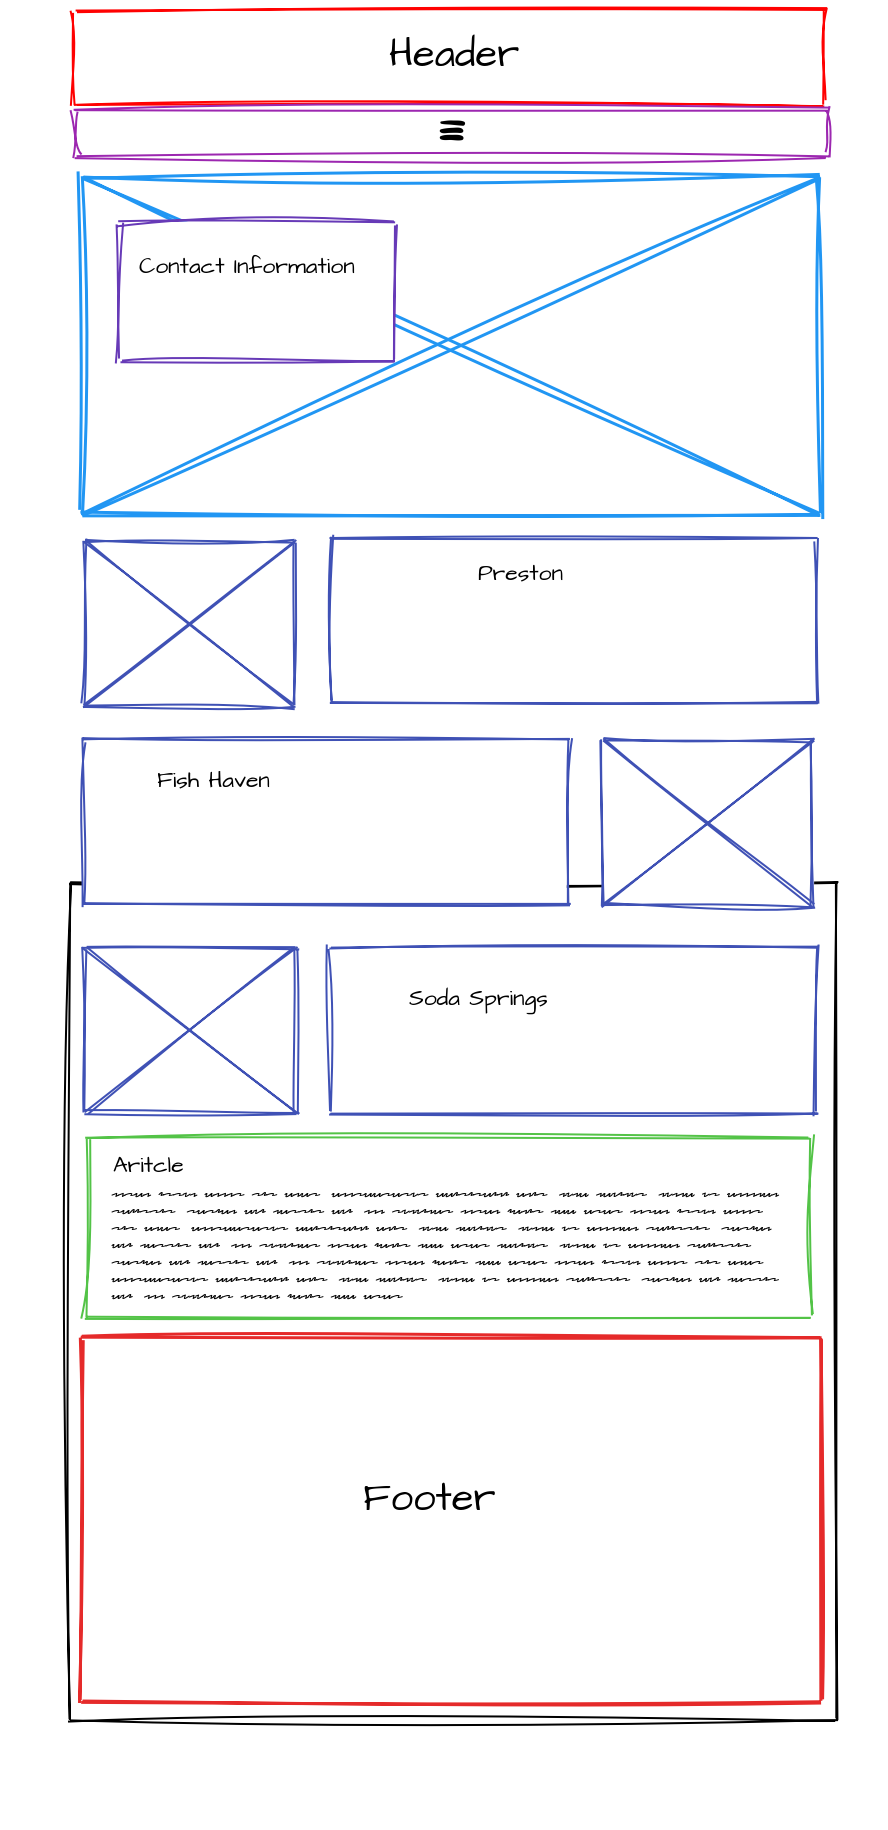
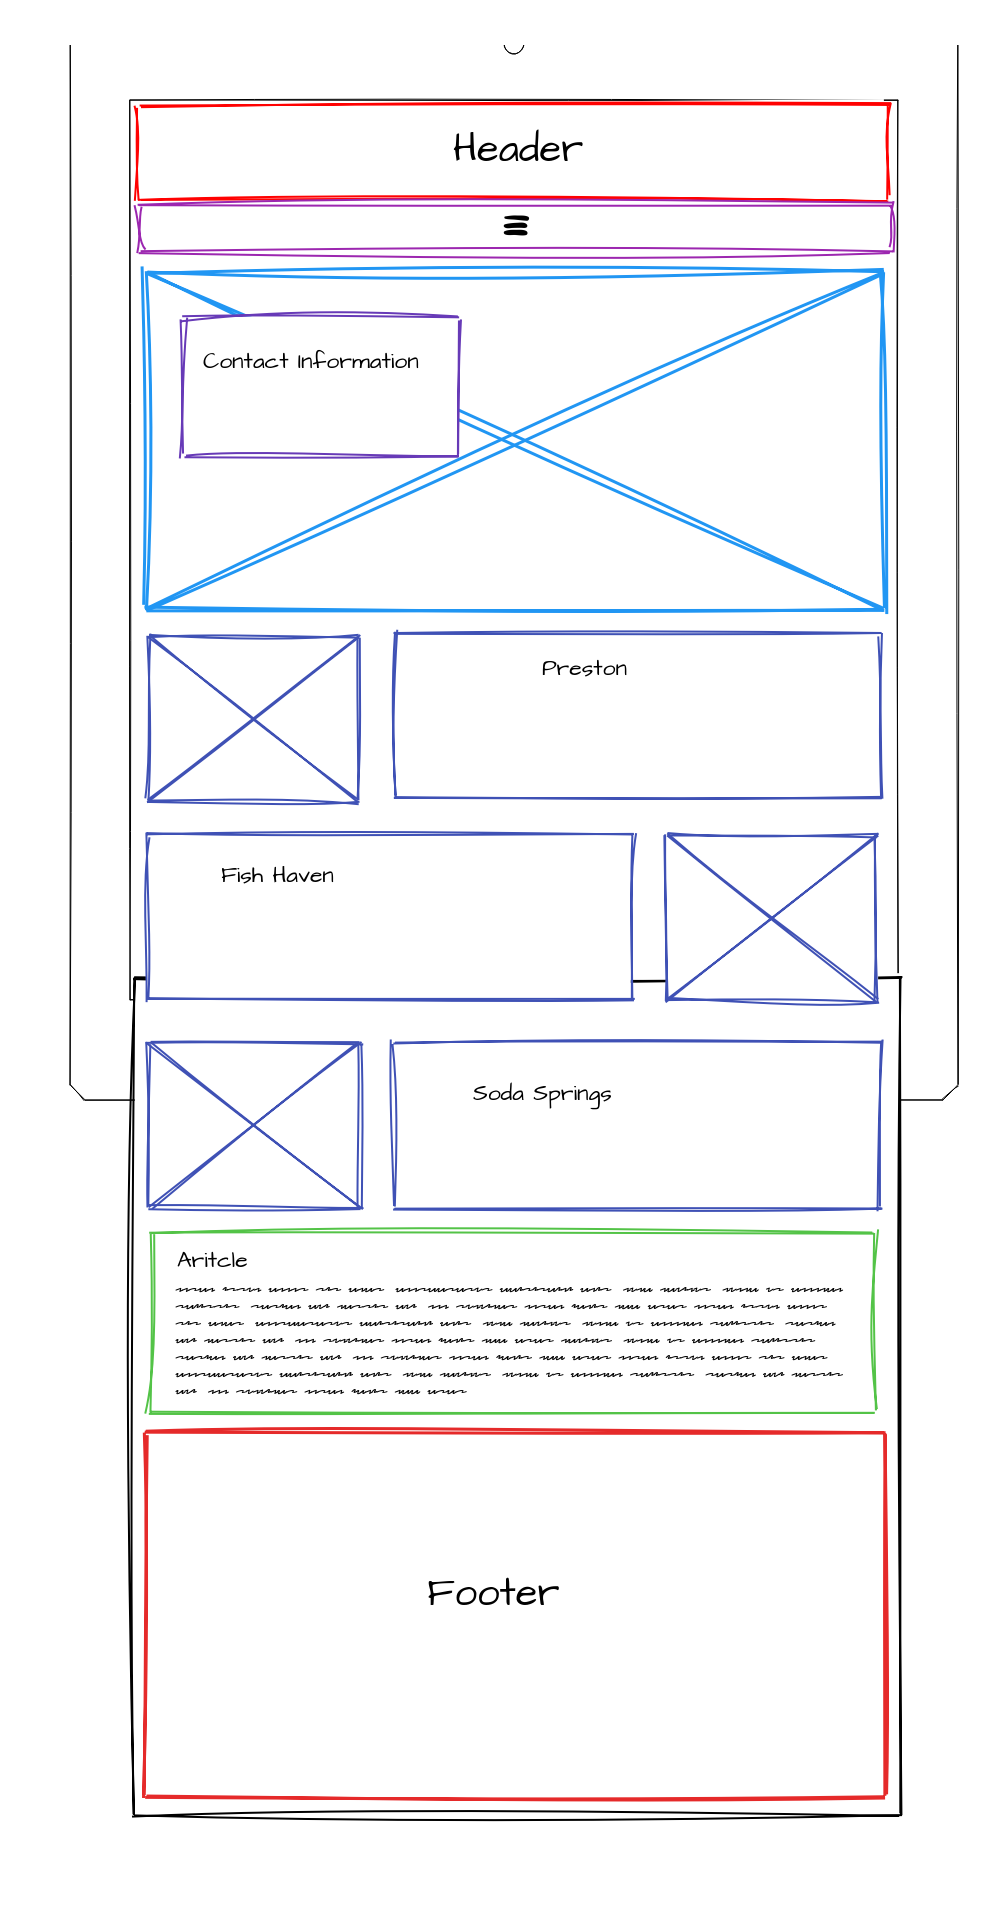
108 Commit

Changed region(s): [[0.0608, 0.0, 0.973, 0.9656], [0.3953, 0.8098, 0.5473, 0.841]]

diff --git a/lesson9/index.html b/lesson9/index.html
@@ -5,11 +5,10 @@
     <meta charset="utf-8">
     <meta name="viewport" content="width=device-width, initial-scale=1">
     <title>Weather Weekly:Preston Town Page</title>
-    <meta name="description" content="Assignment: Build general layout for Preston, Idaho Town weather web page. Including a logo, site name, motto, three viewports, responsive, use javascript and contain other features and information.">
     <link rel="stylesheet" href="/css/normalize.css">
-    <link rel="stylesheet" href="/lesson6/css/small.css">
-    <link rel="stylesheet" href="/lesson6/css/medium.css">
-    <link rel="stylesheet" href="/lesson6/css/large.css">
+    <link rel="stylesheet" href="/lesson9/css/small.css">
+    <link rel="stylesheet" href="/lesson9/css/medium.css">
+    <link rel="stylesheet" href="/lesson9/css/large.css">
     <link rel="shortcut icon" href="/lesson6/images/favicon.ico">
 </head>
 
@@ -33,7 +32,18 @@
     </nav>
     <main>
         <h2>Home</h2>
-        
+        <img class="mainImg" loading=lazy src="/lesson9/images/main.webp" alt="Main Image">
+        <div class="weather">
+            <h3>Contact Information</h3>
+            <p>Phone #</p>
+            <p>Email</p>
+        </div>
+        <div class="summaries">
+        </div>
+        <div class="news main">
+            <h3>News Article</h3>
+            <p>Lorem ipsum dolor sit amet, consectetur adipiscing elit. Morbi sapien ante, suscipit elementum viverra tincidunt, pellentesque ac orci. Maecenas non orci pharetra, tincidunt ipsum eu, molestie sem. Aliquam sapien nisi, fermentum ut placerat nec, rhoncus ut risus. Vestibulum ante ipsum primis in faucibus orci luctus et ultrices posuere cubilia curae; Ut aliquet accumsan leo at aliquam. Nulla consequat eros vel magna posuere, id consectetur nulla convallis. Donec non vehicula diam. Curabitur vel nulla ornare, euismod quam non, auctor diam. Phasellus imperdiet libero eu tortor viverra, vel efficitur mauris laoreet. Vivamus posuere at nulla vel lobortis. Vestibulum dapibus mauris sit amet fringilla fringilla. Sed ultricies orci quis lectus dignissim, id sollicitudin augue volutpat. Sed fringilla magna lacinia ipsum aliquam, in consequat enim condimentum.</p>
+        </div>
     </main>
     <footer>
         <p>Contact Information</p>
@@ -48,7 +58,7 @@
         <a href="https://www.twitter.com/"><img class="social" src="/lesson5/images/twitter.png" alt="twitter"></a>
     </footer>
     <script src="/lesson6/js/right-now.js"></script>
-    <script src="/lesson6/js/windchill.js"></script>
+    <script src="/lesson9/js/index.js"></script>
     <script src="https://ajax.googleapis.com/ajax/libs/webfont/1.6.26/webfont.js"></script>
     <script>
         WebFont.load({

diff --git a/lesson9/js/index.js b/lesson9/js/index.js
@@ -1,0 +1,70 @@
+const requestURL = 'https://byui-cit230.github.io/weather/data/towndata.json';
+
+fetch(requestURL)
+  .then(function (response) {
+    return response.json();
+  })
+  .then(function (jsonObject) {
+    console.table(jsonObject);
+    const towns = jsonObject['towns'];
+
+    
+    for (let i = 1; i < towns.length; i= i+3 ) {
+
+        let summary = document.createElement('section');
+        let h3 = document.createElement('h3');
+        let h5 = document.createElement('h5');
+        let p1 = document.createElement('p');
+        let p2 = document.createElement('p');
+        let p3 = document.createElement('p');
+        let image = document.createElement('img');
+
+        h3.textContent = towns[i].name;
+        h5.textContent = towns[i].motto;
+        p1.textContent = "Year Founded: " + towns[i].yearFounded;
+        p2.textContent = "Population: " + towns[i].currentPopulation;
+        p3.textContent = "Annual Rain Fall: " + towns[i].averageRainfall;
+        image.setAttribute('src', towns[i].photo);
+
+        summary.appendChild(h3);
+        summary.appendChild(h5);
+        summary.appendChild(p1);
+        summary.appendChild(p2);
+        summary.appendChild(p3);
+        summary.appendChild(image);
+        
+
+        document.querySelector('div.summaries').appendChild(summary);
+
+        i++;
+
+    }   
+
+        let summary = document.createElement('section');
+        let h3 = document.createElement('h3');
+        let h5 = document.createElement('h5');
+        let p1 = document.createElement('p');
+        let p2 = document.createElement('p');
+        let p3 = document.createElement('p');
+        let image = document.createElement('img');
+
+        h3.textContent = towns[6].name;
+        h5.textContent = towns[6].motto;
+        p1.textContent = "Year Founded: " + towns[6].yearFounded;
+        p2.textContent = "Population: " + towns[6].currentPopulation;
+        p3.textContent = "Annual Rain Fall: " + towns[6].averageRainfall;
+        image.setAttribute('src', towns[6].photo);
+
+        summary.appendChild(h3);
+        summary.appendChild(h5);
+        summary.appendChild(p1);
+        summary.appendChild(p2);
+        summary.appendChild(p3);
+        summary.appendChild(image);
+        
+
+        document.querySelector('div.summaries').appendChild(summary);
+
+    
+  });
+

diff --git a/lesson9/css/large.css b/lesson9/css/large.css
@@ -87,14 +87,41 @@
 
   figure:hover {
     box-shadow: 3px 3px 5px #5d5988;
-}
+  }
+
+  div.summaries {
+    display: grid;
+    grid-template-columns: 1fr 1fr 1fr;
+    width: 100%;
+    gap: 10px;
+  }
+
+  section{
+    display: block;
+  }
+    
+  section:nth-child(1) {
+    grid-column: 1;
+  }
+
+  section:nth-child(2) {
+    grid-column: 2;
+  }
+
+  section:nth-child(3) {
+    grid-column: 3;
+  }
+
+  div.news.main {
+    display: block;
+  }
 
 }
 
 @media only screen and (min-width: 900px) {
 
   #gallery {
-    display: grid;
+    display: block;
     grid-template-columns: repeat(3,1fr);
     grid-gap: 20px;
   }

diff --git a/lesson9/css/medium.css b/lesson9/css/medium.css
@@ -51,4 +51,34 @@ figure:hover figcaption {
   margin-left: 15px;
 }
 
+section {
+  display: grid;
+  grid-template-columns: 1fr 1fr 1fr;
+  width: 100%;
+  grid-column: 1/4;
+}
+
+section h3, section h5, section p {
+  grid-column: 2/4;
+  padding: 0 20px;
+}
+
+section img {
+  grid-column: 1/2;
+  grid-row: 1/6;
+  max-width: 200px;
+  padding-top: 20px;
+  padding-right: 20px;
+  padding-left: 20px;
+}
+
+section:nth-child(odd) h3, section:nth-child(odd) h5, section:nth-child(odd) p {
+  grid-column: 1/3;
+}
+
+section:nth-child(odd) img {
+  grid-column: 3/4;
+  grid-row: 1/6;
+}
+
 }

diff --git a/lesson9/css/small.css b/lesson9/css/small.css
@@ -275,3 +275,25 @@ form label.top input:required:valid {
     padding-bottom: 5px;
     padding-top: 30px;
 }
+
+.mainImg {
+    width: 100%;
+}
+
+section {
+    background-color: #223559;
+    color: #dbe0e6;
+    text-align: center;
+    margin-bottom: 20px;
+    padding: 20px 0;
+}
+
+div h5{
+    margin-top: -15px;
+    font-weight: lighter;
+    font-style: italic;
+}
+
+section img {
+    max-width: 80%;
+}

diff --git a/lesson9/js/prophets.js b/lesson9/js/prophets.js
@@ -29,4 +29,3 @@ fetch(requestURL)
 
     
   });
-
